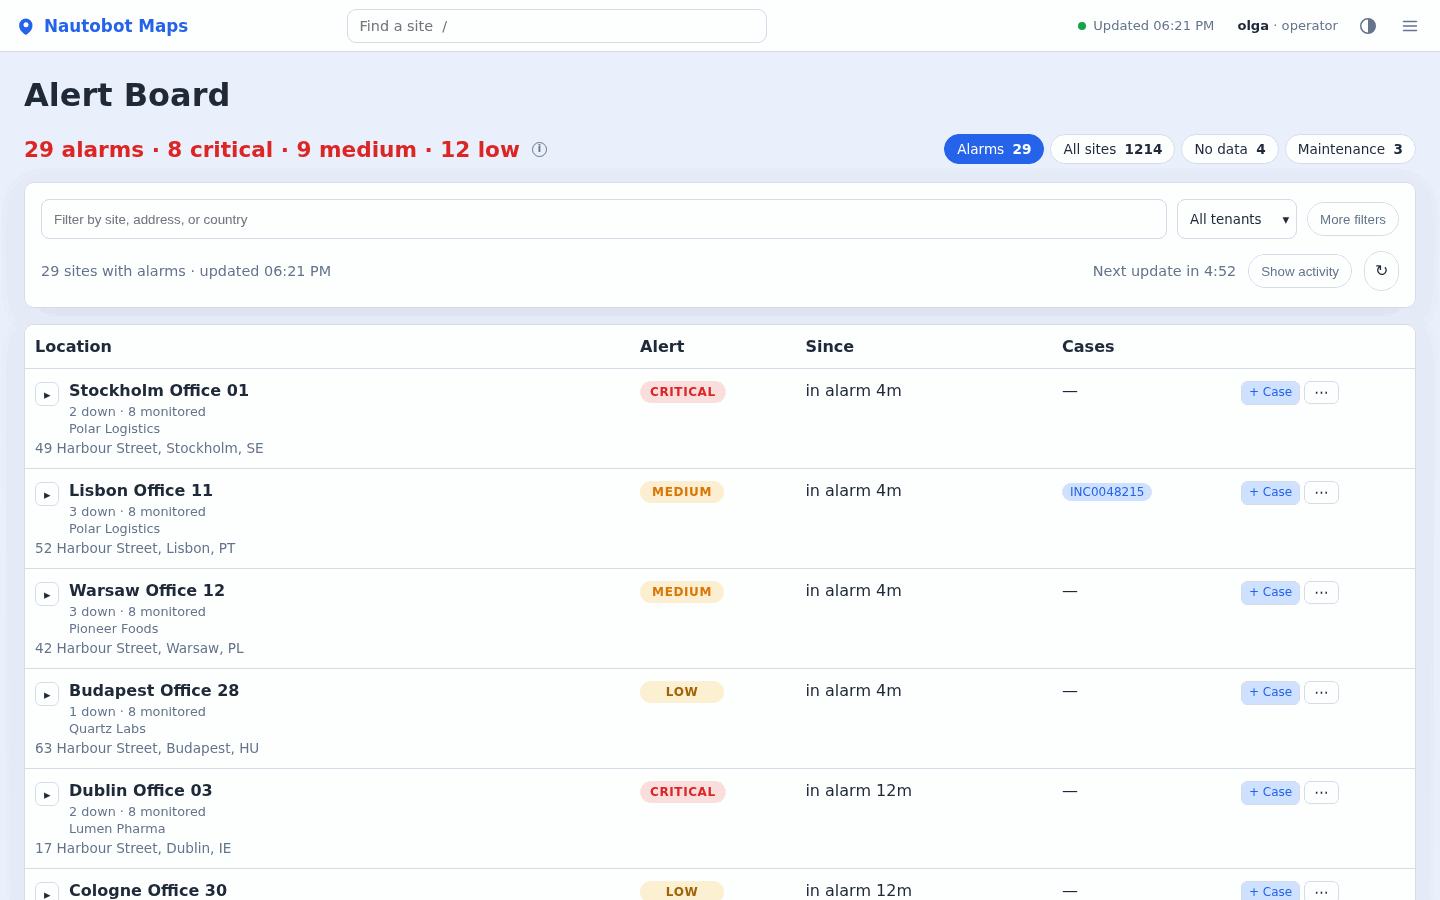
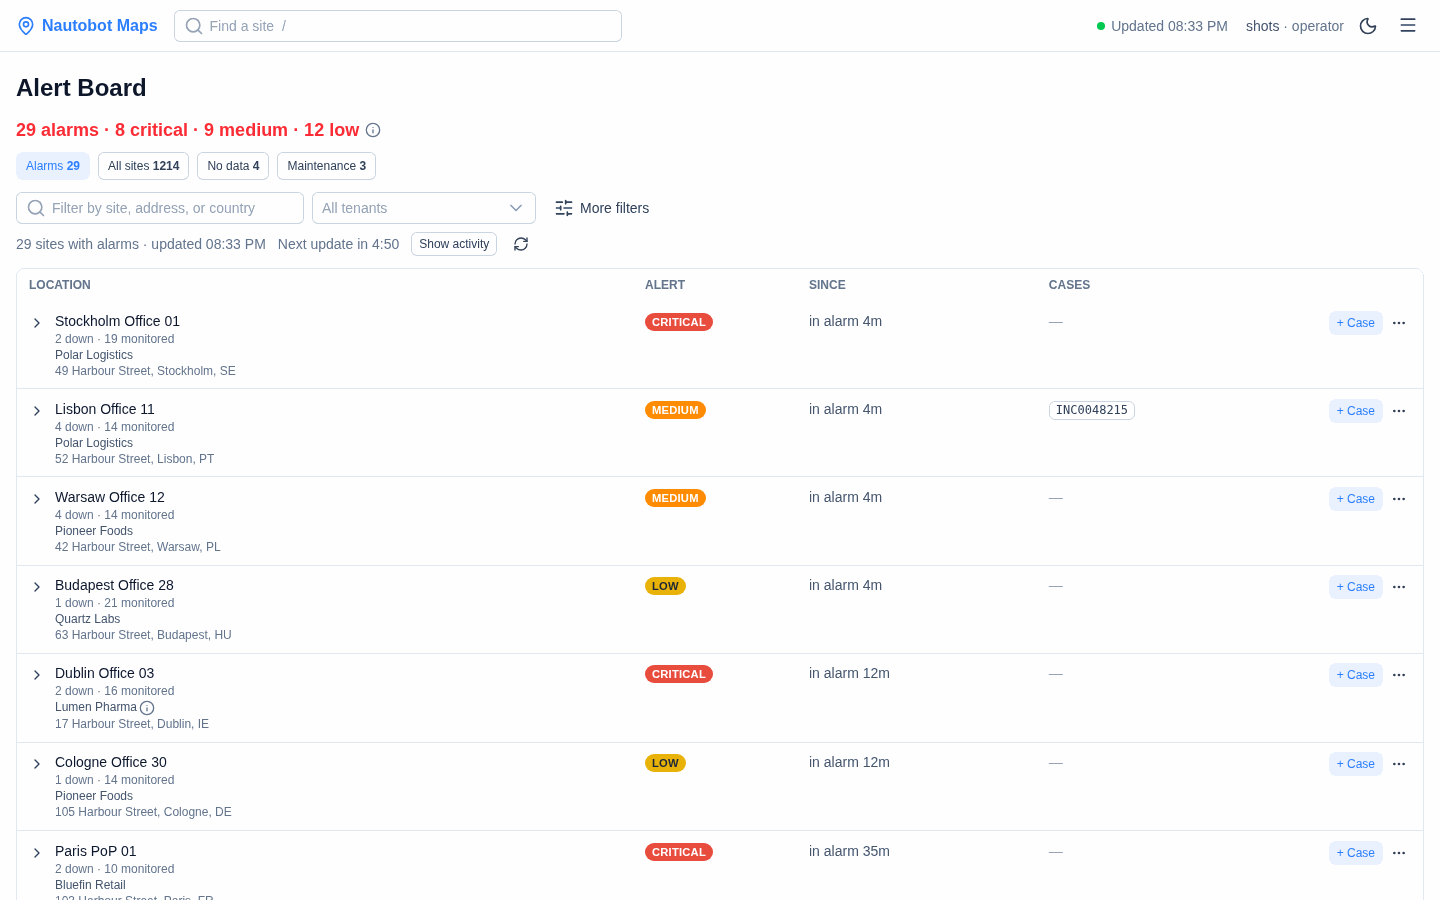
README pictures of the app as it is, two new ones, this week's features; the scale demo has access points and tenant descriptions (#505)

diff --git a/scripts/screenshots.py b/scripts/screenshots.py
@@ -65,14 +65,41 @@ def seed(base, token, board):
     for site in alarms[7:10]:
         ids = [d["device_id"] for d in site["down_devices"]]
         api(base, token, "/api/alert-acks", {"site_id": site["id"], "device_ids": ids, "note": "On it, checking power"})
-    quiet = [s["id"] for s in board if s["alert_level"] == "ok"][:4]
-    api(base, token, "/api/maintenance", {"site_ids": quiet[:3], "reason": "Firmware upgrade", "duration_minutes": 240})
+    quiet = [s for s in board if s["alert_level"] == "ok"]
+    ids = [s["id"] for s in quiet]
+    api(base, token, "/api/maintenance", {"site_ids": ids[:3], "reason": "Firmware upgrade", "duration_minutes": 240})
     api(
         base,
         token,
         "/api/maintenance",
-        {"site_id": quiet[3], "reason": "Fibre move", "starts_at": "2030-01-01T22:00:00Z", "duration_minutes": 120},
+        {"site_id": ids[3], "reason": "Fibre move", "starts_at": "2030-01-01T22:00:00Z", "duration_minutes": 120},
     )
+    # The Maintenance page at scale: one change across 40 sites, planned, and one device.
+    api(
+        base,
+        token,
+        "/api/maintenance",
+        {
+            "site_ids": ids[10:50],
+            "reason": "Core router upgrade, wave 2",
+            "starts_at": "2030-01-04T21:00:00Z",
+            "duration_minutes": 360,
+        },
+    )
+    device_site = next(s for s in quiet[60:] if s["device_count"] > 1)
+    devices = api(base, token, f"/api/locations/{device_site['id']}/detail").get("devices") or []
+    if devices:
+        api(
+            base,
+            token,
+            "/api/maintenance",
+            {
+                "site_id": device_site["id"],
+                "device_ids": [devices[0]["id"]],
+                "reason": "PSU swap",
+                "duration_minutes": 90,
+            },
+        )
 
 
 def with_token(page, base, token):
@@ -102,7 +129,7 @@ def open_map(page, base):
 
 def open_site(page, name):
     page.locator("#alarm-list li", has_text=name).first.click()
-    page.wait_for_selector("#location-inspector .inspector-device-list", timeout=20000)
+    page.wait_for_selector("#location-inspector #inspector-down-title", timeout=20000)
     page.wait_for_timeout(1500)
 
 
@@ -112,7 +139,10 @@ PAGES = [
     ("light", "/alerts", "#alerts-table-body tr", "alert-board"),
     ("dark", "/alerts", "#alerts-table-body tr", "alert-board-dark"),
     ("dark", "/alerts?view=wall", "#alerts-table-body tr", "wall-view"),
+    ("light", "/maintenance", ".maint-batch", "maintenance"),
 ]
+# The status page: a tenant with Critical, Medium and Low sites, as its customer sees it.
+STATUS_TENANT = "Tidal Ports"
 
 
 def screenshots(browser, base, token, out, burst):
@@ -132,8 +162,25 @@ def screenshots(browser, base, token, out, burst):
         page.wait_for_selector(loaded, timeout=60000)
         page.wait_for_timeout(1000)  # fonts and the last render
         shoot(page, out, name)
+    status_page(browser, base, token, out)
     for page in pages.values():
         page.context.close()
+
+
+def status_page(browser, base, token, out):
+    """The tenant's status page (#291) at its link (#500): narrower, as it is laid out."""
+    links = api(base, token, "/api/availability").get("status_links") or {}
+    if STATUS_TENANT not in links:
+        print("no status link for", STATUS_TENANT, "(is it the scale demo?): status page skipped")
+        return
+    ctx = browser.new_context(viewport={"width": 1120, "height": 580}, color_scheme="light")
+    page = ctx.new_page()
+    with_token(page, base, token)
+    page.goto(f"{base}/status/{links[STATUS_TENANT]}")
+    page.wait_for_selector(".status-devices", timeout=60000)
+    page.wait_for_timeout(1000)
+    shoot(page, out, "status-page")
+    ctx.close()
 
 
 def clip(browser, base, token, out, burst):

diff --git a/demo/mock_nautobot.py b/demo/mock_nautobot.py
@@ -648,8 +648,9 @@ def _scale_device(site_id, index, name, role, model, status, tenant, down_minute
     return device
 
 
-def _scale_site_devices(site_id, prefix, switches, down, core, core_model, since, tenant_of):
-    """A core router and *switches* access switches; the core (when *core*) and the first *down* switches down."""
+def _scale_site_devices(site_id, prefix, switches, down, core, core_model, since, tenant_of, aps=0, aps_down=0):
+    """A core router, *switches* access switches and *aps* access points (#503); the core (when
+    *core*), the first *down* switches and the first *aps_down* access points down."""
     devices = [
         _scale_device(
             site_id,
@@ -676,15 +677,41 @@ def _scale_site_devices(site_id, prefix, switches, down, core, core_model, since
                 since if is_down else None,
             )
         )
+    for i in range(1, aps + 1):
+        is_down = i <= aps_down
+        devices.append(
+            _scale_device(
+                site_id,
+                switches + i,
+                f"{prefix}-ap{i:02d}",
+                "Access Point",
+                ("Cisco", "Catalyst 9136"),
+                "Offline" if is_down else "Active",
+                tenant_of(switches + i),
+                since if is_down else None,
+            )
+        )
     return devices
+
+
+# What Nautobot's tenant description says (#497: found by it, shown on the status page).
+SCALE_DESCRIPTIONS = {
+    "Northwind Bank": "Retail banking, 24/7 SLA",
+    "Helix Health": "Hospitals and clinics, critical care",
+    "Lumen Pharma": "Pharmaceutical production",
+    "Tidal Ports": "Container terminals",
+}
 
 
 def _add_scale_sites(count: int) -> None:
     rnd = random.Random(1200)
+    # Its own generator: the access points leave the sites and alarms above as they were.
+    ap_rnd = random.Random(503)
     customers = []
     for name in SCALE_CUSTOMERS:
         slug = name.lower().replace(" ", "-")
-        tenant = {"id": f"ten-{slug}", "name": name, "slug": slug, "description": "", "tenant_group": None}
+        description = SCALE_DESCRIPTIONS.get(name, "")
+        tenant = {"id": f"ten-{slug}", "name": name, "slug": slug, "description": description, "tenant_group": None}
         TENANTS[tenant["id"]] = tenant
         customers.append(tenant)
     alarms = [(down, core) for sites, down, core in SCALE_ALARMS for _ in range(sites)][: count - 1]
@@ -722,8 +749,15 @@ def _add_scale_sites(count: int) -> None:
             continue
         down, core = alarm_at.get(n, (0, False))
         since = rnd.choice([4, 12, 35, 80, 190, 420, 1500])
+        # Access points (#503): offices 6-16, PoPs 2, DCs none.  A Medium site
+        # (3 switches down) has 6, one of them down: still above 25 % down,
+        # and the day's devices down within 50-100.
+        aps = {"lt-office": ap_rnd.randint(6, 16), "lt-pop": 2}.get(kind, 0)
+        aps_down = 0
+        if down == 3 and not core:
+            aps, aps_down = 6, 1
         DEVICES[site_id] = _scale_site_devices(
-            site_id, prefix, 7, down, core, ("Juniper", "MX204"), since, lambda i, t=tenant: t
+            site_id, prefix, 7, down, core, ("Juniper", "MX204"), since, lambda i, t=tenant: t, aps, aps_down
         )
 
 

diff --git a/README.md b/README.md
@@ -15,14 +15,14 @@ Built for a NOC: 1,200+ sites and 10,000+ devices, with 20–30 sites down on a 
   - **One search box** finds a site by name or address as you type, or a place or `lat,lon` with every site within 5 km.
   - **The left panel** folds away with the sidebar button for a full-screen map, and still shows the alarm count while folded.
 - **Alert board**: each site's level (Critical, Medium, Low), its down devices with IP, role and down-since time, the likely cause, downtime, tenants and case numbers. It opens on sites with alarms, the ones nobody is on first, and updates itself.
-- **Searchable filters** on the map, board, Availability and Maintenance: type to find a value and tick several. A site matches any pick within a filter and every filter together. Closed controls show one name and **+N**; the map's chips remove individual picks. Arrows move, Enter ticks the highlighted match, and Escape closes; typing and picking make no requests, at 1,200 sites too. Staff (viewer, operator, admin) can carry tenant picks in Map / Alert Board / Wall view links and **Copy wall link**, using repeated `?tenant=` values. Customer status pages remain single-tenant, without filters or access to the map or board.
+- **Searchable filters** on the map, board, Availability and Maintenance: type to find a value and tick several. A tenant is found by its name or its Nautobot description ("Novo" finds NNIT, "Novo Nordisk IT"). A site matches any pick within a filter and every filter together. Closed controls show one name and **+N**; the map's chips remove individual picks. Arrows move, Enter ticks the highlighted match, and Escape closes; typing and picking make no requests, at 1,200 sites too. Staff (viewer, operator, admin) can carry tenant picks in Map / Alert Board / Wall view links and **Copy wall link**, using repeated `?tenant=` values. Customer status pages remain single-tenant, without filters or access to the map or board.
 - **Criticality from Nautobot**: mark which sites and devices matter with custom fields in Nautobot. A gold site makes every down device Critical; one device can be set Critical (or Low) on its own, and the device's field wins. With nothing set, the share of devices down decides, and all down is still Critical. Editing these doesn't page anyone ([set it up](#criticality-in-nautobot)).
 - **Wall view** for a NOC screen: alarms only, no buttons, and a loud warning when it stops updating. A link with `?tenant=` / `?q=` gives a team its own wall, board and map, with **Copy wall link** on the board.
 - **Cases and ITSM**: attach a case number to many down devices at once, acknowledge with a note, or copy a site as text for a ticket. History and an activity feed show what went down and came back.
 - **Circuit mapping**: circuits without a termination in Nautobot, grouped by the site their description's address points to (one, several, none), with CSV: the worklist for linking them properly ([circuit mapping](docs/how-it-works.md#circuit-mapping)).
 - **Maintenance windows** for sites or single devices, now or planned ahead: planned work is not an alarm. A history of every window, with CSV.
-- **Availability** per site and tenant for any period, with maintenance left out, and CSV exports down to every incident.
-- **Tenant status page**: "are we affected?" for one tenant, shareable with a customer. A large tenant sees what's wrong first; the operational sites fold into one line.
+- **Availability** per site and tenant for any period, with maintenance left out, and CSV exports down to every incident. Each site says how much is there ("12 network · 40 APs"), and a tenant's name opens its status page.
+- **Tenant status page**: "are we affected?" for one tenant, shareable with a customer at a random link (not the tenant's name, so another customer's page can't be guessed). Each site with its address and its devices, "3 of 12 network devices down · 1 of 40 access points down", counts only. A large tenant sees what's wrong first; the operational sites fold into one line.
 - **More sources**: LibreNMS status (optional) next to Nautobot's, pushed within seconds by LibreNMS alerts; Prometheus Alertmanager and a generic webhook can mark devices down.
 - **Notifications** to a webhook, Microsoft Teams or email when a site becomes Critical and when it recovers, summarised, never one per device.
 - **One top bar on every page**: find any site, see at a glance whether the data is fresh (amber when a sync is late, red when Nautobot or LibreNMS can't be reached), who is signed in, dark or light, and every page in the ☰ menu.
@@ -42,6 +42,8 @@ Built for a NOC: 1,200+ sites and 10,000+ devices, with 20–30 sites down on a 
 | **Alert board**: worst and newest first, with cases | **Dark mode**, on every page |
 | ![The wall view: alarms with their down devices, no buttons](docs/images/wall-view.png) | ![Availability: per tenant for October, with downtime](docs/images/availability.png) |
 | **Wall view** for the NOC screen | **Availability** per site and tenant |
+| ![Maintenance: two active windows and two planned, one across 40 sites](docs/images/maintenance.png) | ![A tenant's status page: 3 of 75 sites affected, 7 devices down, the 72 operational sites folded](docs/images/status-page.png) |
+| **Maintenance**: now and planned, one line per change | **Status page**, as the customer sees it |
 
 The pictures come from `scripts/screenshots.py` with the scale demo.
 

diff --git a/CHANGELOG.md b/CHANGELOG.md
@@ -57,6 +57,7 @@ The format is based on [Keep a Changelog](https://keepachangelog.com/), and this
 - **Notifications** when a site's alert level changes: a site reaching `NOTIFY_MIN_LEVEL` (default Critical) and dropping back below it, to a webhook (JSON, optionally HMAC-signed), Microsoft Teams (Workflows webhook) and/or email (SMTP). Optional tenant filter; a burst of changes goes out as one summary. Messages are queued in the same transaction as the level change (`notification_outbox`, schema version 5) and sent by the background scheduler at least once (each event has a stable `id` for dropping duplicates), with retries; bursts become summaries of at most 25 sites; `/metrics` shows pending and failed messages; `POST /api/notifications/test` (admin) sends a test. See `docs/notifications.md` (#282)
 
 ### Changed
+- **The README's pictures show the app as it is** (#505): every screenshot and the tour retaken on the current pages, with two new ones (Maintenance, a tenant's status page), and the feature list brought up to date; the same in the app's Documentation. The scale demo (`MOCK_SCALE`) has access points and tenant descriptions, and `scripts/screenshots.py` follows the pages
 - **The status page has a random link per tenant, not its name** (#500): `/status/<id>` (24 random characters), so another customer's page can't be found by guessing a name. Links by name stop working ("No sites found for this link. If it is an old link, ask your contact for a new one."): **send each customer their new link**. `token create … --role status` prints it (`Share: /status/<id>#key=…`), `POST /api/tokens` answers it as `status_link`, `python -m nautobot_maps status-link TENANT` shows it and `--new` replaces a leaked one. Availability's tenant links follow; `GET /api/availability` answers `status_links`
 - **The API reference is at `/api/docs`, its spec at `/api/openapi.json`** (#483): everything about the API under `/api`. The old `/docs` and `/openapi.json` redirect there for good (301), so bookmarks and tools keep working; update them when convenient
 - **The map's filters are Status, Tenant and Tenant group** (#480): Location type and Parent location are gone from the panel; the site panel and the search still show a site's type and place

diff --git a/demo/README.md b/demo/README.md
@@ -79,11 +79,18 @@ read the tenant's description from Nautobot; *EuroIX* has none, so it has no
 panel.
 
 ### Scenario 7 – A NOC's real load
-`MOCK_SCALE=1200` adds 1,200 generated sites across Europe (about 9,600
-devices) to the nine above, 27 of them in alarm (Critical, Medium and Low; 29
-on the board with London HQ and Etage 2). One is a core outage: *Copenhagen
-Office 01* has 34 of its 40 devices down, across eight tenants. The sites and
-devices are the same on every start; the outages begin when the mock starts.
+`MOCK_SCALE=1200` adds 1,200 generated sites across Europe (about 19,000
+devices, half of them access points) to the nine above, 27 of them in alarm
+(Critical, Medium and Low; 29 on the board with London HQ and Etage 2). One is
+a core outage: *Copenhagen Office 01* has 34 of its 40 devices down, across
+eight tenants. The sites and devices are the same on every start; the outages
+begin when the mock starts.
+
+Sixteen customers have 75 sites each, and four of them have a description in
+Nautobot (search for "Container" in a tenant filter to find *Tidal Ports*).
+On Availability, click *Tidal Ports* for its status page: 3 of its 75 sites
+affected, with how many network devices and access points are down at each,
+and the other 72 folded into one line.
 
 ```bash
 MOCK_SCALE=1200 docker compose -f demo/docker-compose.yml up --build
